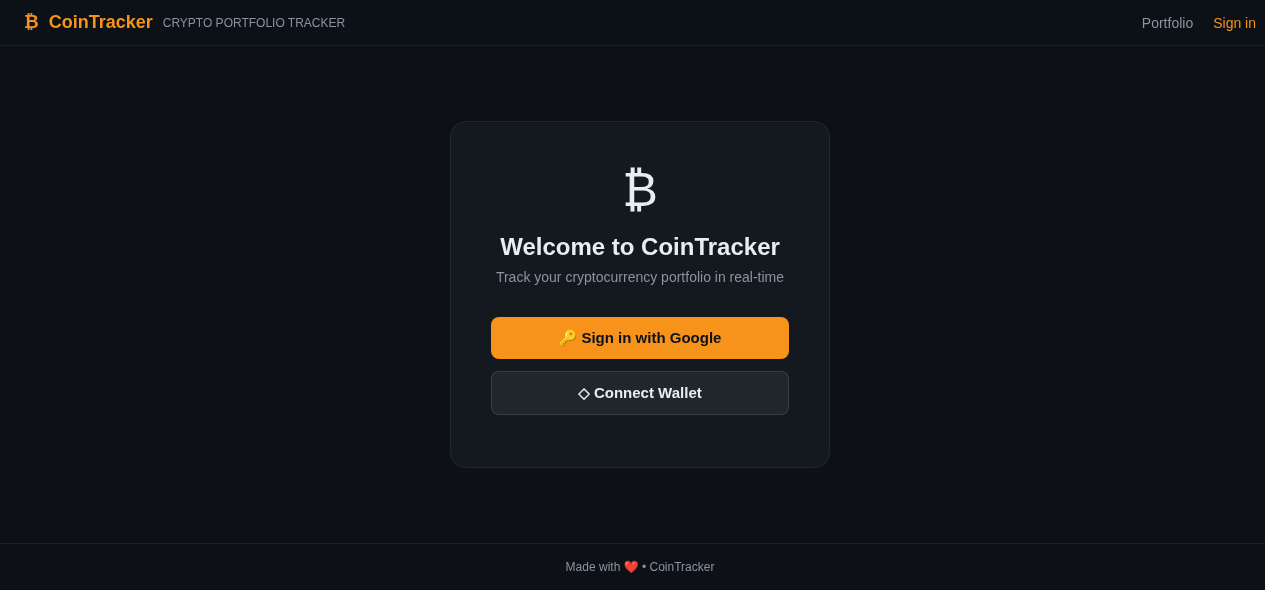
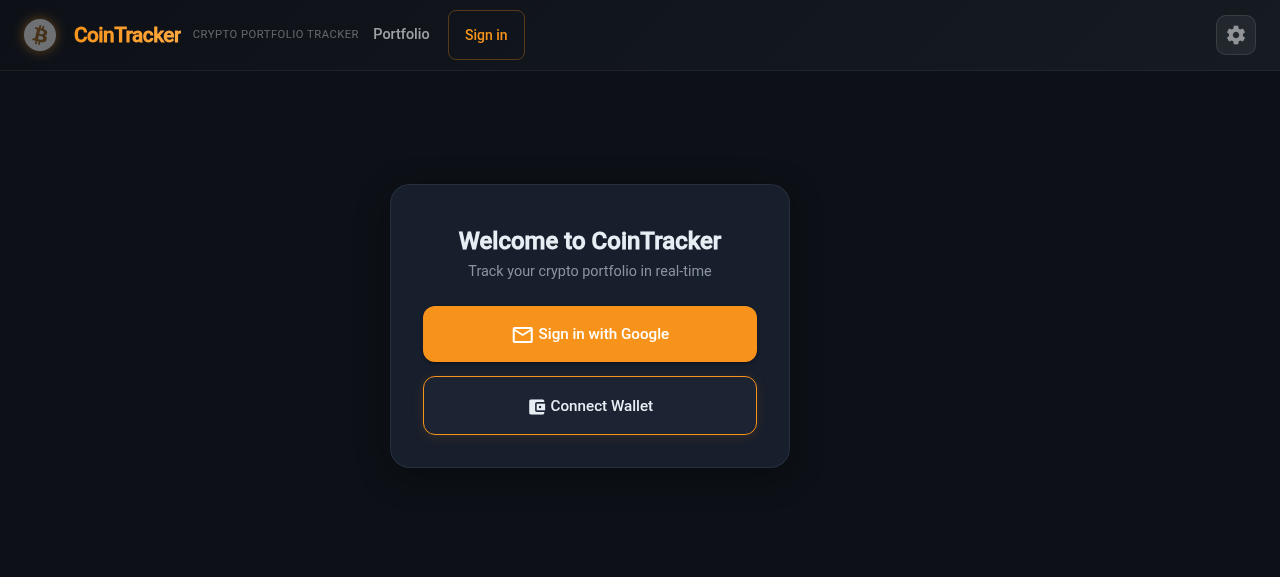
docs: update README with real login and 404 screenshots

diff --git a/README.md b/README.md
@@ -28,14 +28,14 @@
 ## 📸 Screenshots
 
 ### Login Page
-![Login page with dark theme and MetaMask integration](screenshots/login.png)
+![Login page with dark glassmorphism card](screenshots/login.png)
 
-*MetaMask wallet authentication with glassmorphism card design*
+*Clean glassmorphism card with Google Sign-In and MetaMask Connect Wallet buttons*
 
-### Portfolio Dashboard
-![Portfolio dashboard with crypto portfolio table](screenshots/portfolio.png)
+### 404 Page
+![404 page with animated floating number](screenshots/404.png)
 
-*Live portfolio balance, price charts, and transaction management. View your BTC, ETH holdings with real-time prices and 24h changes.*
+*Dark-themed 404 with floating animation and Bitcoin orange accent*
 
 ## 🛠 Tech Stack
 
